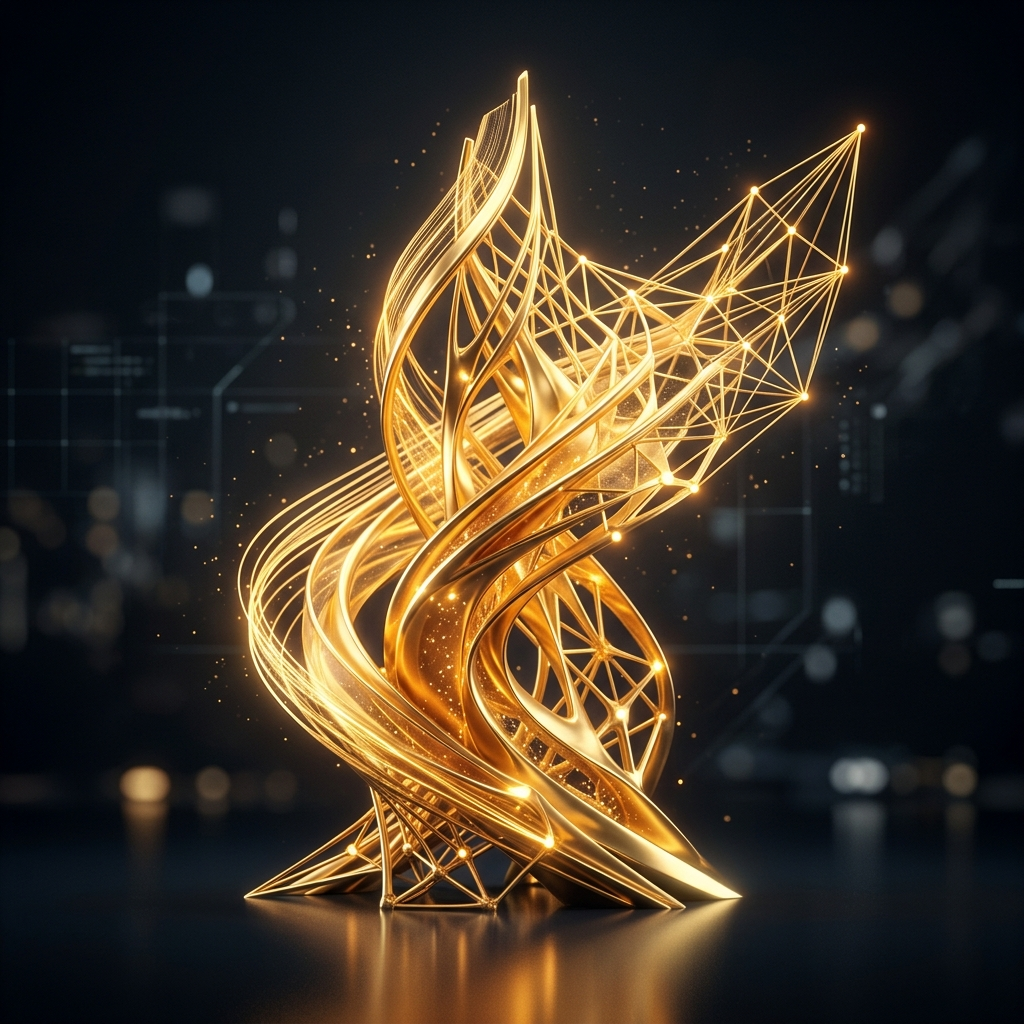
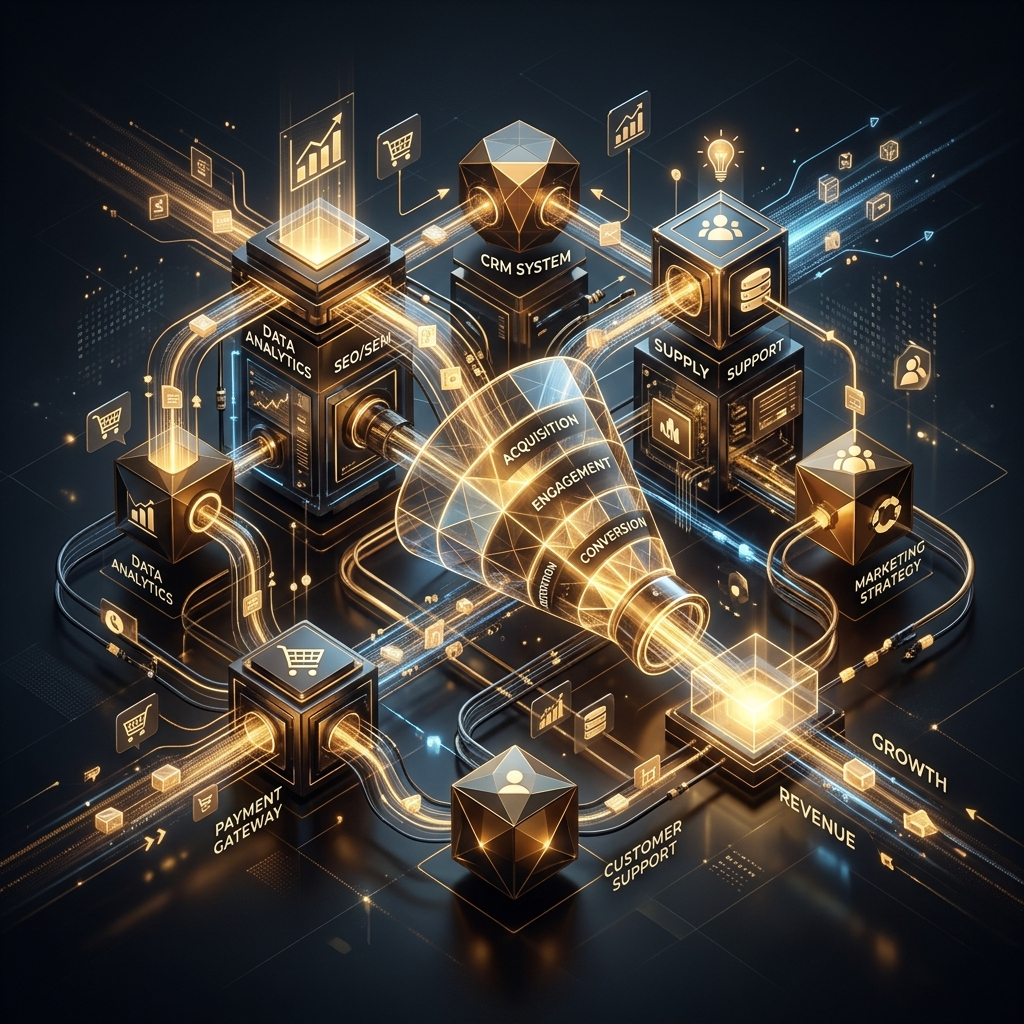
feat: update images for about section and replace contact email

diff --git a/src/components/about/Capabilities.tsx b/src/components/about/Capabilities.tsx
@@ -79,7 +79,7 @@ export function Capabilities() {
               <div className="absolute inset-0 bg-gradient-to-tr from-[var(--brand-gold-muted)]/15 to-transparent rounded-[2rem] -z-10 blur-xl" />
               <img 
                 src="/media/about/capabilities.png" 
-                alt="SellSavvy digital capabilities architecture illustration" 
+                alt="High-end 3D abstract illustration representing e-commerce expertise and interconnected digital services" 
                 className="w-full h-full object-cover rounded-[2rem] border border-[var(--border-soft)] shadow-2xl"
               />
             </Reveal>

diff --git a/src/components/about/AboutHero.tsx b/src/components/about/AboutHero.tsx
@@ -30,7 +30,7 @@ export function AboutHero() {
               <div className="absolute inset-0 bg-gradient-to-tr from-[var(--brand-gold-muted)]/15 to-transparent rounded-[2rem] -z-10 blur-xl" />
               <img 
                 src="/media/about/hero.png" 
-                alt="Sleek glassmorphic strategic ecommerce growth arrow" 
+                alt="Premium dark-themed e-commerce analytics dashboard with glowing amber and gold charts" 
                 className="w-full h-full object-cover rounded-[2rem] border border-[var(--border-soft)] shadow-2xl"
               />
             </Reveal>

diff --git a/src/config/site.ts b/src/config/site.ts
@@ -2,7 +2,7 @@ export const siteConfig = {
   name: "SellSavvy",
   tagline: "Smart solution for smart sellers",
   url: import.meta.env.VITE_SITE_URL ?? "https://sellsavvy.com",
-  email: import.meta.env.VITE_CONTACT_EMAIL ?? "growth@sellsavvy.com",
+  email: import.meta.env.VITE_CONTACT_EMAIL ?? "sellsavvyservices@gmail.com",
   phone: "+91 79850 07920",
   whatsapp: "https://wa.me/917985007920",
   instagram: "https://www.instagram.com/_sellsavvy_?igsh=NmlpMnd0eWhzYmVi",
